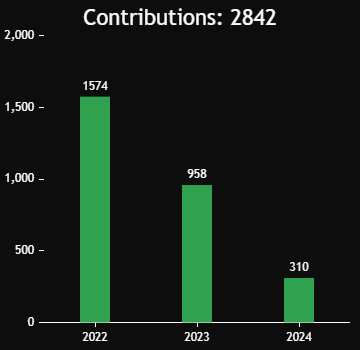
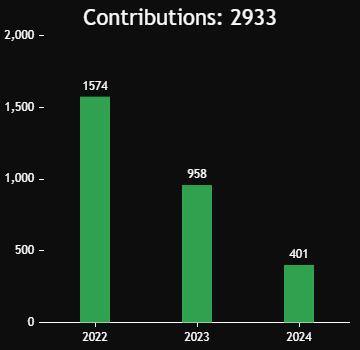
updated charts and README

Changed region(s): [[0.7639, 0.7143, 0.8861, 0.8], [0.6722, 0.0286, 0.7639, 0.0857]]

diff --git a/README.md b/README.md
@@ -3,16 +3,16 @@
 ### 🌌 About me
 
 💻 self-taught programmer\
-🕵♂ currently working as a Junior VB.NET Developer\
+🕵♂ currently working as a Junior C#/VB.NET Developer\
 🧠 constantly improving my coding skills and learning new things
 
 ### 🔭 Connect with me
 
-<a href="https://www.linkedin.com/in/arekjg/" target="_blank"><img src="./img/i-li.svg" height="40" alt="linkedin"/></a>
+<a href="https://www.linkedin.com/in/arkadiusz-gubala/" target="_blank"><img src="./img/i-li.svg" height="40" alt="linkedin"/></a>
 
 ### 📈 My GithHub stats
 
 ![Programming Languages](/img/LanguagesChart.png)\
 ![Repositories](/img/ReposChart.png)
 ![Contributions](/img/ContributionsChart.png)\
-<sup>Charts made with [GitHubStats](https://github.com/arekjg/GitHubStats), include private and public repos - last update: 15/03/2024</sup>
+<sup>Charts made with [GitHubStats](https://github.com/arekjg/GitHubStats), include private and public repos - last update: 27/08/2024</sup>
